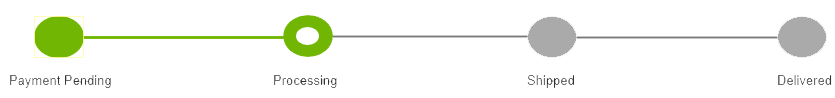
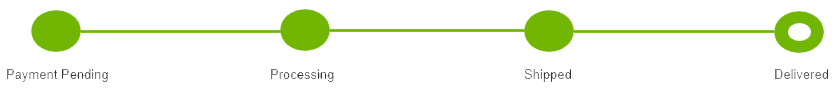
Dynamic order stage works now

diff --git a/templates/orderlog.html b/templates/orderlog.html
@@ -50,7 +50,7 @@ Note:
     </div>
     <div id="thirdSection" class="container">
         <div>
-            <img id="deliveryStageVisual" src="../static/img/{{orderstage}}.PNG">
+            <img id="deliveryStageVisual" src="../static/img/{{ orderstage }}.PNG">
         </div>
     </div>
     <div id="fourthSection">

diff --git a/app.py b/app.py
@@ -769,16 +769,15 @@ def orderlog(orderid):
         else:
             print("Order-id not found")
     c = current_order["Current_Order"] # c = order-object!
-    if c.get_status() == "paymentpending":
-        orderstage = "PaymentPending"
-    elif c.get_status() == "processing":
+    print("Status is,", c.get_status())
+    if c.get_status() == 0:
         orderstage = "Processing"
-    elif c.get_status() == "shipped":
+    elif c.get_status() == 1:
         orderstage = "Shipped"
-    elif c.get_status() == "delivered":
+    elif c.get_status() == 2:
         orderstage = "Delivered"
     else:
-        orderstage = ""
+        orderstage = "PaymentPending"
     return render_template('orderlog.html', orderid=orderid, current_order=c, orderstage=orderstage, orderlogCommentDict=c.get_order_log())
     # return render_template('orderlog.html', order_info=order_info, orderlogCommentDict = order_info["orderlogComment"], productname = "processing")
 
